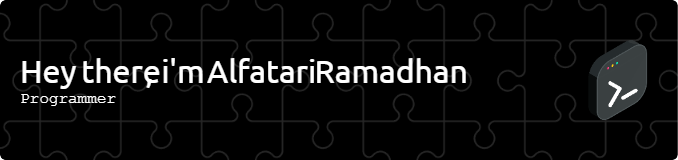
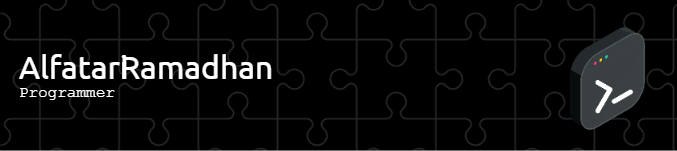
update profile

diff --git a/README.md b/README.md
@@ -1,6 +1,4 @@
-## Hi there 👋
-
-## I'm Alfatari Ramadhan
+## Hey there 👋
 
 ![Alfatari Ramadhan](img/github-header-image.png)
 
